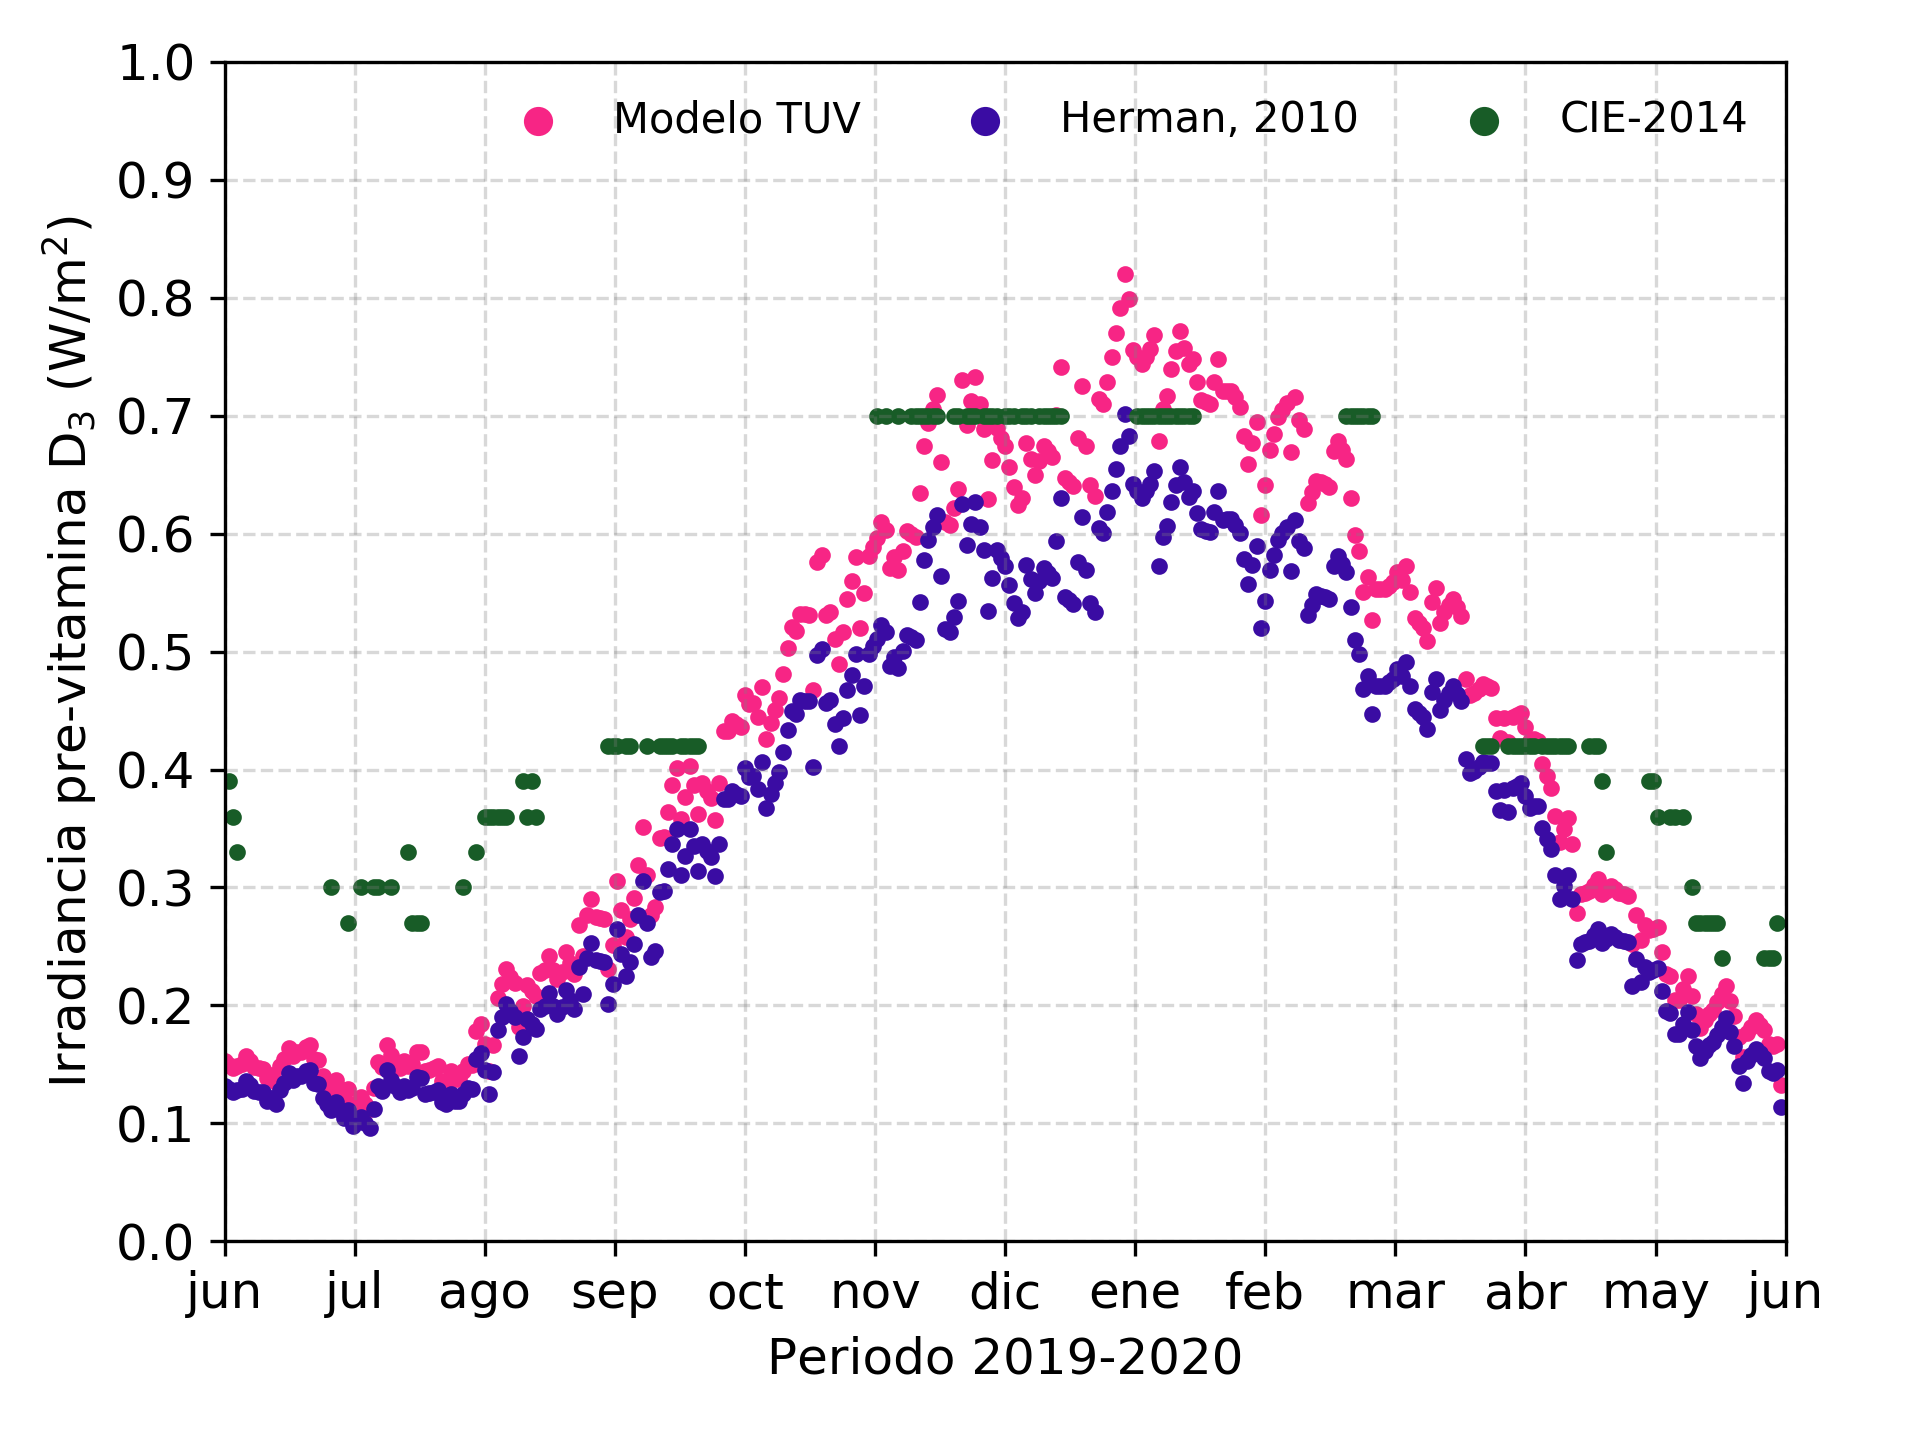
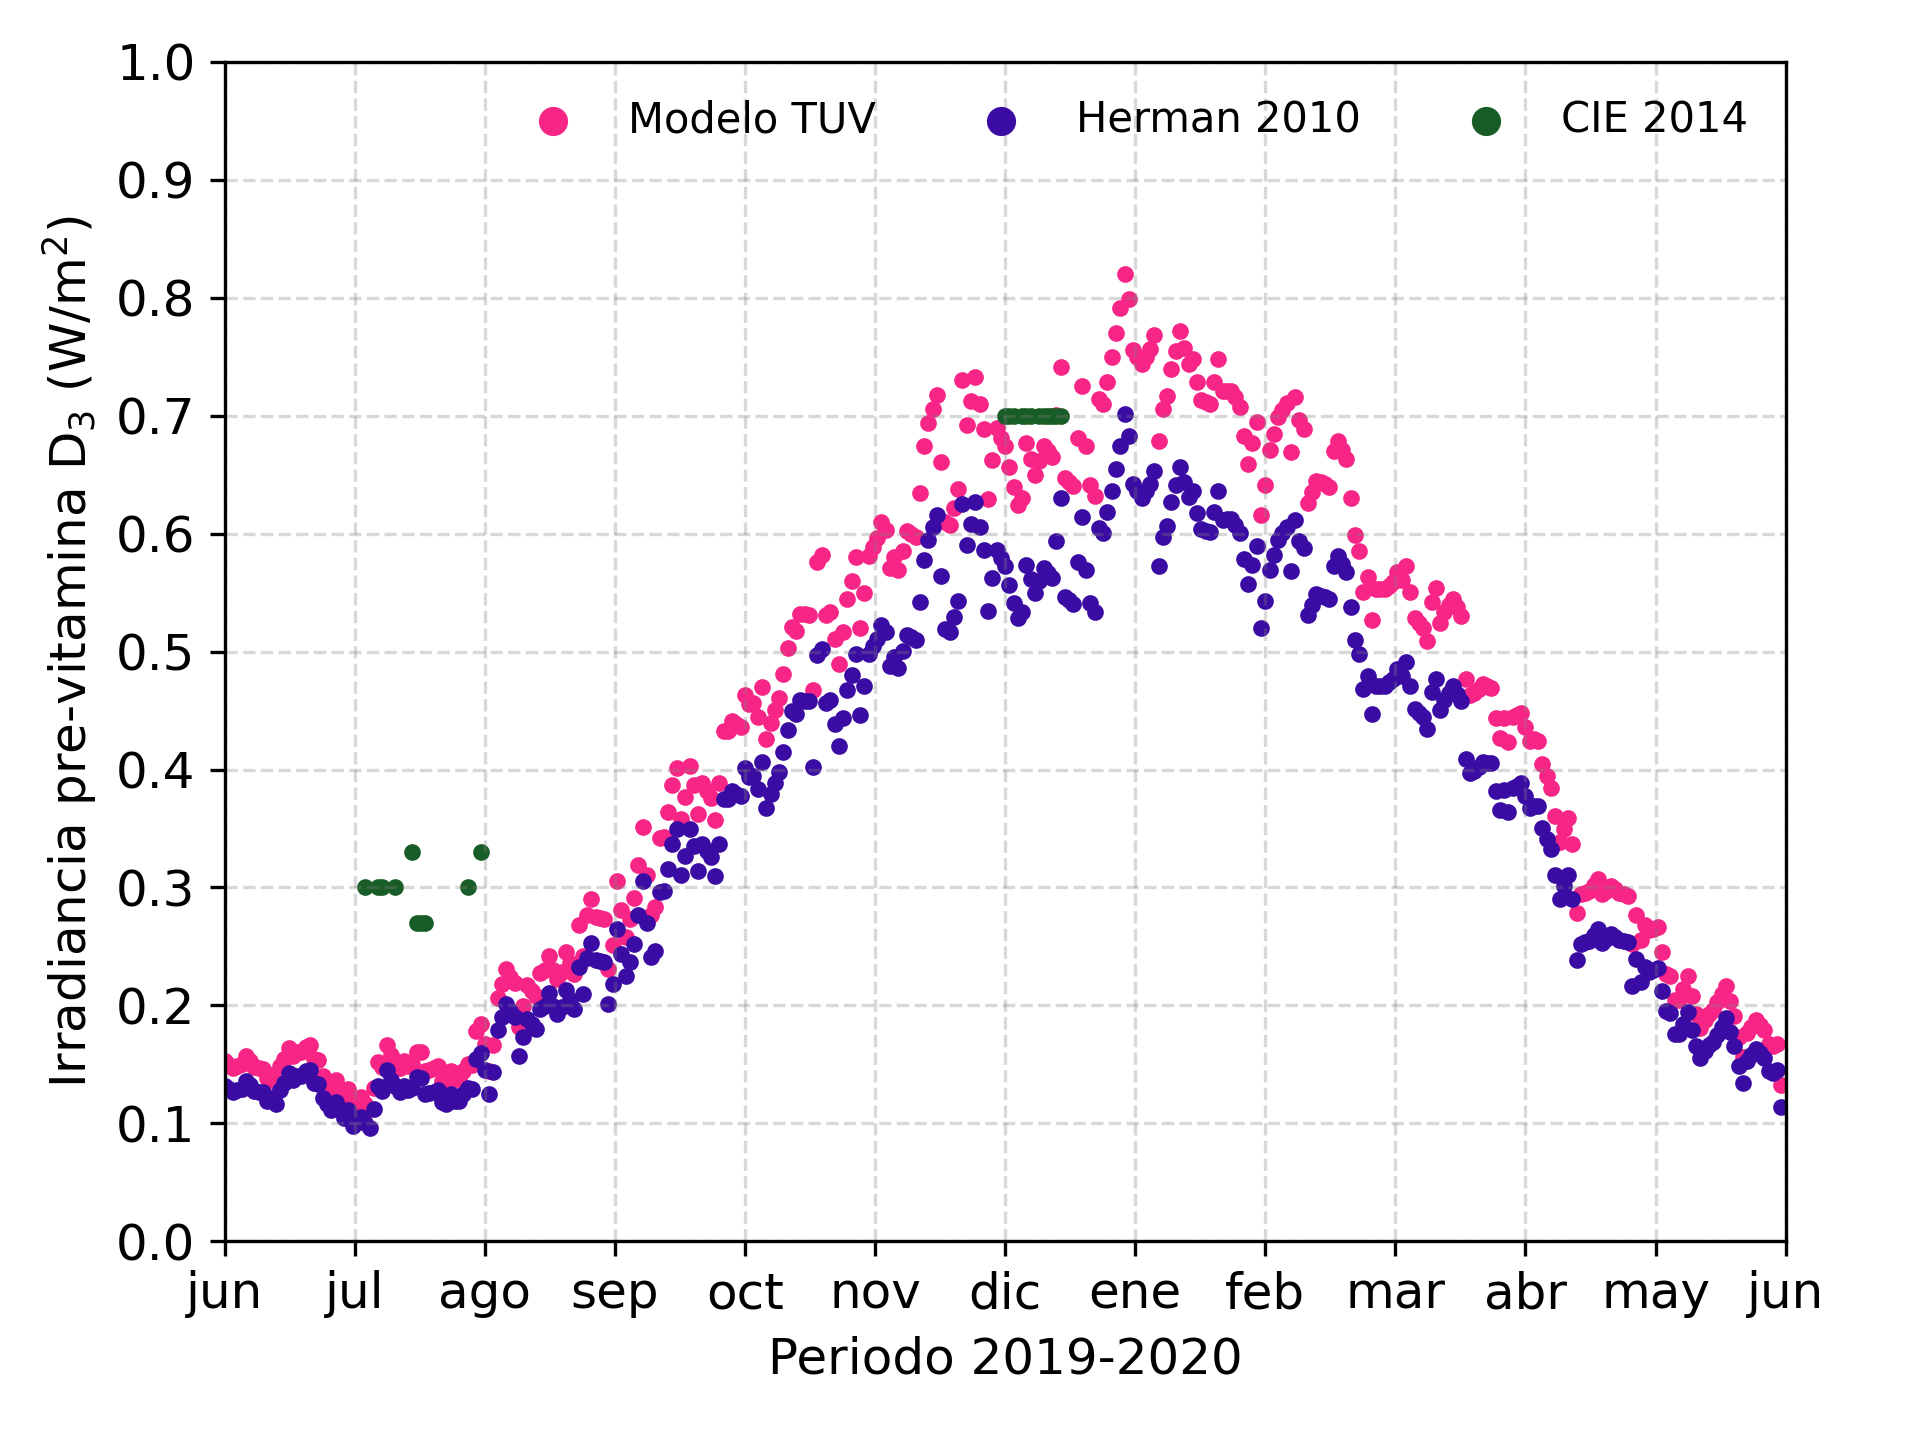
Change graphics

diff --git a/Scripts/pre_vitamin_d_graphics.py b/Scripts/pre_vitamin_d_graphics.py
@@ -12,13 +12,20 @@ date = np.loadtxt(dir_vitamin_d+"sza_vitamin_max.csv",
                   delimiter=",", skiprows=1, usecols=0, dtype=str)
 data_vitamin = np.loadtxt(
     dir_vitamin_d+"sza_vitamin_max.csv", delimiter=",", skiprows=1, usecols=2)
-data_CIE, data_Herman = np.loadtxt(
-    dir_vitamin_d+"CIE_Herman_data.csv", delimiter=",", skiprows=1, unpack=True)
+data_Herman = np.loadtxt(
+    dir_vitamin_d+"CIE_Herman_data.csv", delimiter=",", skiprows=1, unpack=True, usecols=1)
+data_CIE_jul = np.loadtxt(
+    dir_vitamin_d+"CIE_Herman_data.csv", delimiter=",", skiprows=31, unpack=True, usecols=0, max_rows=31)
+data_CIE_dic = np.loadtxt(
+    dir_vitamin_d+"CIE_Herman_data.csv", delimiter=",", skiprows=184, unpack=True, usecols=0, max_rows=31)
 x = np.arange(n_days)
+x2 = np.arange(31)
 plt.scatter(x, data_vitamin, c="#f72585", label="Modelo TUV", marker=".")
-plt.scatter(x, data_Herman, c="#3a0ca3", label="Herman, 2010", marker=".")
-plt.scatter(x[data_CIE != 0], data_CIE[data_CIE != 0],
-            c="#185C27", label="CIE-2014", marker=".")
+plt.scatter(x, data_Herman, c="#3a0ca3", label="Herman 2010", marker=".")
+plt.scatter(x2[data_CIE_jul != 0]+31, data_CIE_jul[data_CIE_jul != 0],
+            c="#185C27", label="CIE 2014", marker=".")
+plt.scatter(x2[data_CIE_dic != 0]+183, data_CIE_dic[data_CIE_dic != 0],
+            c="#185C27", marker=".")
 plt.ylabel("Irradiancia pre-vitamina D$_3$ (W/m$^2$)", fontsize=12)
 plt.xlabel("Periodo 2019-2020", fontsize=12)
 plt.xlim(0, n_days)
